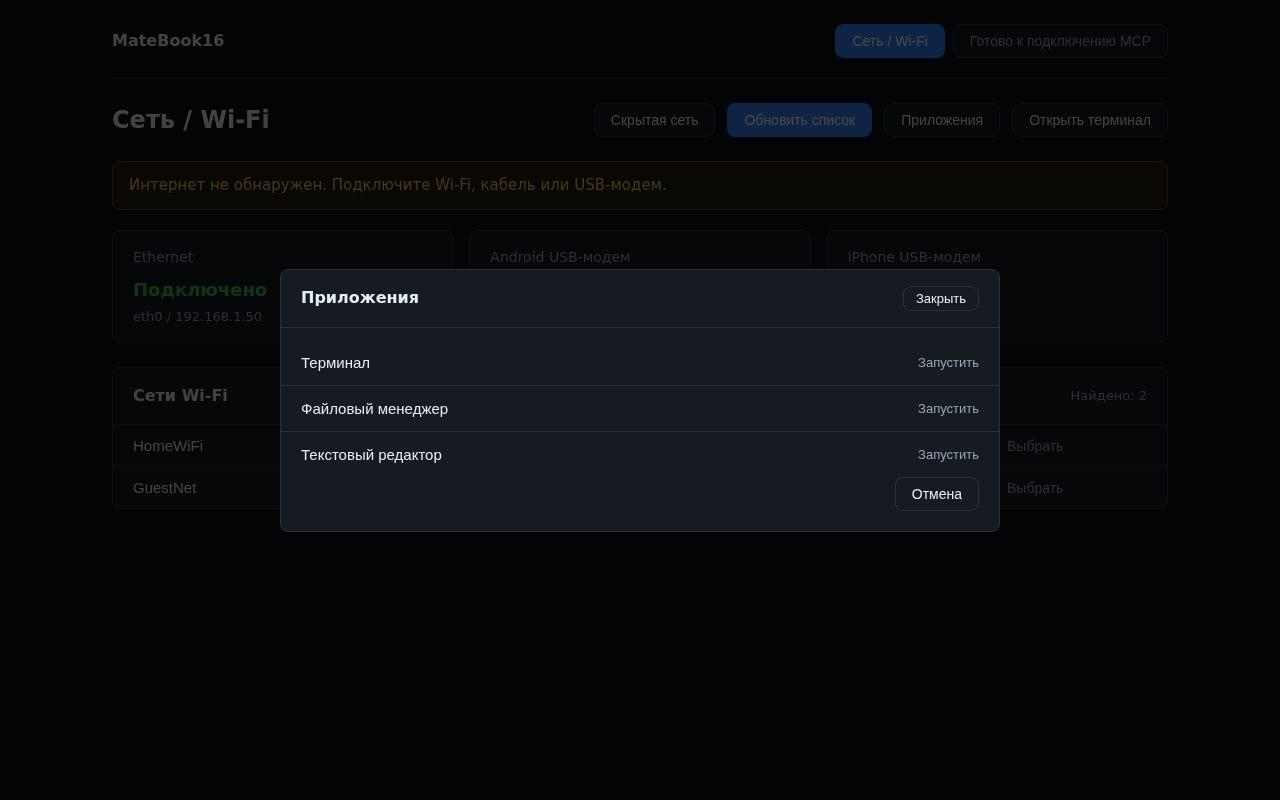
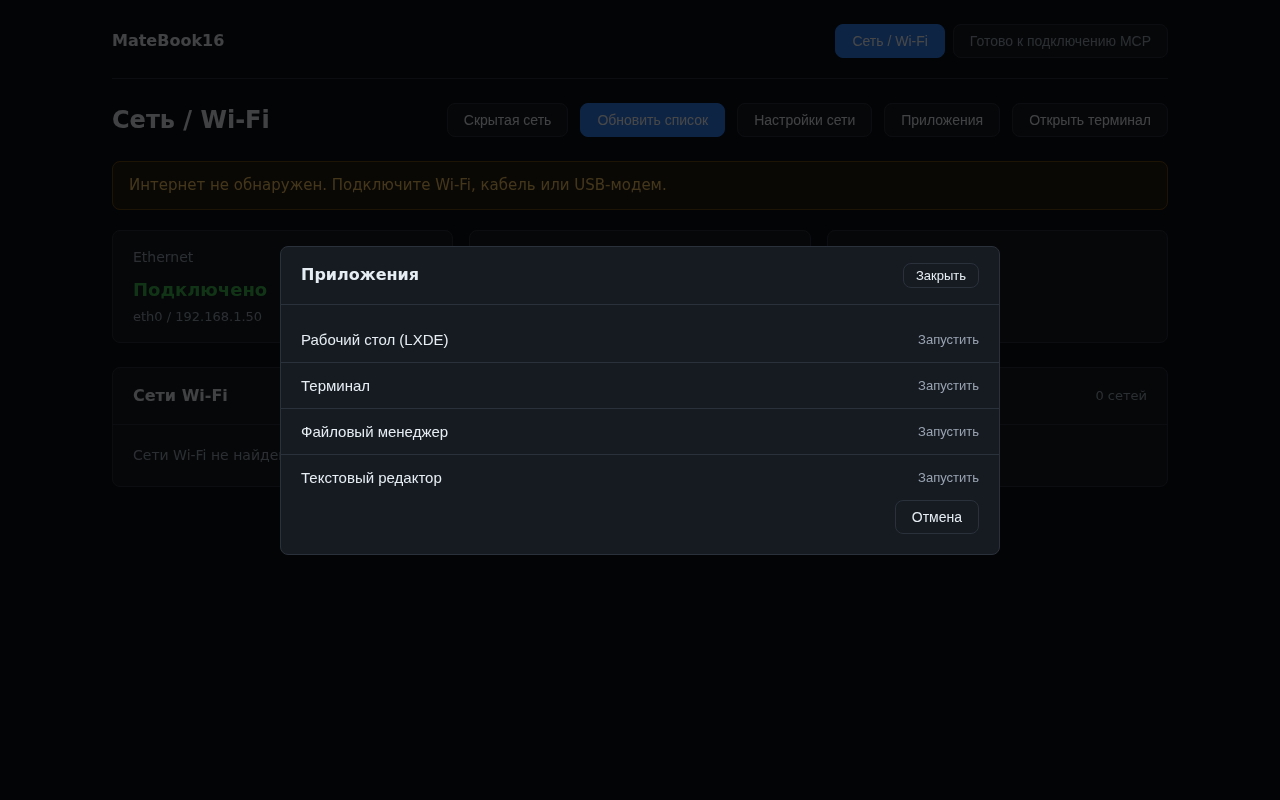
feat(kiosk): launch a full LXDE desktop from the app launcher

diff --git a/tests/test_kiosk_server.py b/tests/test_kiosk_server.py
@@ -673,31 +673,31 @@ def _fake_popen(captured: Dict[str, Any], pid: int = 2468):
     return fake_popen
 
 
-APP_LABELS = ["Терминал", "Файловый менеджер", "Текстовый редактор"]
+APP_LABELS = ["Рабочий стол (LXDE)", "Терминал", "Файловый менеджер", "Текстовый редактор"]
 
 
 def test_list_local_apps_allowlist_and_availability(monkeypatch):
-    _which_map(monkeypatch, {"xterm": "/usr/bin/xterm", "pcmanfm": "/usr/bin/pcmanfm"})
+    _which_map(monkeypatch, {"rhm-open-desktop": "/usr/local/bin/rhm-open-desktop", "xterm": "/usr/bin/xterm", "pcmanfm": "/usr/bin/pcmanfm"})
 
     apps = kiosk.list_local_apps()
-    assert [a["id"] for a in apps] == ["terminal", "files", "editor"]
+    assert [a["id"] for a in apps] == ["desktop", "terminal", "files", "editor"]
     assert [a["label"] for a in apps] == APP_LABELS
-    assert [a["available"] for a in apps] == [True, True, False]
-    assert apps[0]["reason"] == ""
+    assert [a["available"] for a in apps] == [True, True, True, False]
     assert apps[1]["reason"] == ""
-    assert "mousepad" in apps[2]["reason"]
+    assert apps[2]["reason"] == ""
+    assert "mousepad" in apps[3]["reason"]
     # Stable shape: exactly the four contract keys.
     assert all(set(a) == {"id", "label", "available", "reason"} for a in apps)
 
     # Nothing installed -> all unavailable, each with a non-empty Russian reason.
     _which_map(monkeypatch, {})
     missing = kiosk.list_local_apps()
-    assert [a["available"] for a in missing] == [False, False, False]
+    assert [a["available"] for a in missing] == [False, False, False, False]
     assert all(a["reason"] for a in missing)
 
 
 def test_http_api_apps_returns_three_ids_and_availability(running_server, monkeypatch):
-    _which_map(monkeypatch, {"xterm": "/usr/bin/xterm", "mousepad": "/usr/bin/mousepad"})
+    _which_map(monkeypatch, {"rhm-open-desktop": "/usr/local/bin/rhm-open-desktop", "xterm": "/usr/bin/xterm", "mousepad": "/usr/bin/mousepad"})
     base = running_server["base_url"]
 
     status, _, body = _http_request(base, "/api/apps")
@@ -705,10 +705,10 @@ def test_http_api_apps_returns_three_ids_and_availability(running_server, monkey
     data = json.loads(body.decode("utf-8"))
     assert data["ok"] is True
     apps = data["apps"]
-    assert [a["id"] for a in apps] == ["terminal", "files", "editor"]
+    assert [a["id"] for a in apps] == ["desktop", "terminal", "files", "editor"]
     assert [a["label"] for a in apps] == APP_LABELS
-    assert [a["available"] for a in apps] == [True, False, True]
-    assert "pcmanfm" in apps[1]["reason"]
+    assert [a["available"] for a in apps] == [True, True, False, True]
+    assert "pcmanfm" in apps[2]["reason"]
 
     # The catalogue stays behind the existing Host/Origin/Sec-Fetch gate.
     st_evil, _, _ = _http_request(

diff --git a/tests/test_liveusb_iso_pipeline.py b/tests/test_liveusb_iso_pipeline.py
@@ -44,6 +44,7 @@ LF_REQUIRED_FILES = [
     "ops/live-usb/hooks/0300-purge-build-deps.hook.chroot",
     "ops/live-usb/test-qemu.sh",
     "ops/live-usb/start-kiosk.sh",
+    "ops/live-usb/start-lxde.sh",
     "ops/live-usb/fetch-skills.sh",
     "ops/live-usb/udev/99-rhm-no-automount.rules",
     "ops/live-usb/udev/99-rhm-network-tethering.rules",
@@ -55,6 +56,7 @@ BASH_SCRIPTS = [
     "ops/live-usb/hooks/0300-purge-build-deps.hook.chroot",
     "ops/live-usb/test-qemu.sh",
     "ops/live-usb/start-kiosk.sh",
+    "ops/live-usb/start-lxde.sh",
     "ops/live-usb/fetch-skills.sh",
 ]
 
@@ -568,6 +570,25 @@ def test_build_iso_installs_the_root_warning_wrapper() -> None:
     wrapper_text = wrapper.read_text(encoding="utf-8")
     assert "xfe" in wrapper_text
     assert "Warning" in wrapper_text
+
+
+def test_build_iso_installs_lxde_desktop_launcher() -> None:
+    """The app launcher must ship a full LXDE desktop (Start menu/settings)."""
+    text = BUILD_ISO_SH.read_text(encoding="utf-8")
+    packages = _generated_package_list()
+    required = _check_required_packages()
+    wrapper = LIVEUSB_DIR / "start-lxde.sh"
+
+    assert wrapper.is_file()
+    assert "start-lxde.sh" in text
+    assert "/usr/local/bin/rhm-open-desktop" in text
+    for package in ("lxde", "kbd"):
+        assert package in packages
+        assert package in required
+    wrapper_text = wrapper.read_text(encoding="utf-8")
+    assert "startlxde" in wrapper_text
+    assert "chvt 2" in wrapper_text
+    assert ":1 vt2" in wrapper_text
 
 
 def test_build_iso_installs_kiosk_service_and_masks_getty() -> None:

diff --git a/ops/live-usb/kiosk_server.py b/ops/live-usb/kiosk_server.py
@@ -628,9 +628,14 @@ def trigger_session_regenerate(
 #                    found by shutil.which wins. A tail of ``None`` means the
 #                    argv is computed at launch time (file manager target dir).
 #   missing_reason - Russian explanation returned when no binary is installed.
-APP_LAUNCH_ORDER: Tuple[str, ...] = ("terminal", "files", "editor")
+APP_LAUNCH_ORDER: Tuple[str, ...] = ("desktop", "terminal", "files", "editor")
 
 APP_LAUNCHERS: Dict[str, Dict[str, Any]] = {
+    "desktop": {
+        "label": "Рабочий стол (LXDE)",
+        "candidates": (("rhm-open-desktop", None),),
+        "missing_reason": "Рабочий стол LXDE недоступен: не установлен rhm-open-desktop",
+    },
     "terminal": {
         "label": "Терминал",
         "candidates": tuple(

diff --git a/PROJECT_STATUS_2026-11-23.md b/PROJECT_STATUS_2026-11-23.md
@@ -21,10 +21,10 @@
 | Область | Было | Стало |
 | :--- | :--- | :--- |
 | Rescue-API | 5 секций и 4 действия не реализованы | все 12 секций и 11 действий |
-| Тесты | 5 failed / 1756 passed | **0 failed / 2025 passed / 8 skipped** |
+| Тесты | 5 failed / 1756 passed | **0 failed / 2028 passed / 8 skipped** |
 | Версия | 0.6.0 | **0.1.0** |
 | ISO | не собран | **1.5 ГБ, собран и загружен в QEMU** |
-| `--check` | отсутствовал | **68/68 PASS** |
+| `--check` | отсутствовал | **72/72 PASS** |
 | Kiosk terminal | не было | кнопка + `xterm` + `DISPLAY` |
 | CI/docs | неполные | LiveUSB CI, `docs/liveusb/*`, release notes |
 
@@ -82,6 +82,7 @@ APFS: `apfs-fuse` собран и установлен; DKMS-модуль `linux
   затем pending-экран «Интернет есть, получаем токен…», затем QR-экран с
   инструкцией.
 - Терминал доступен на обоих экранах; меню «Приложения» открывает allowlist:
+  рабочий стол LXDE (`rhm-open-desktop`, меню «Пуск» и настройки на vt2),
   терминал, файловый менеджер (`xfe` через `rhm-open-files`, fallback
   `pcmanfm`) и редактор (`mousepad`).
 - Визуальный прогон: Chromium + Playwright протыкал сеть, Wi-Fi-модалку,
@@ -120,10 +121,10 @@ APFS: `apfs-fuse` собран и установлен; DKMS-модуль `linux
 
 | Проверка | Результат |
 | :--- | :--- |
-| `py -m pytest tests -q` | **2025 passed, 8 skipped, 0 failed** |
+| `py -m pytest tests -q` | **2028 passed, 8 skipped, 0 failed** |
 | `tests/test_rescue.py` | 155 passed |
 | `tests/test_liveusb_iso_pipeline.py` | 24 passed |
-| `build-iso.sh --check` | **68/68 PASS**, exit 0 |
+| `build-iso.sh --check` | **72/72 PASS**, exit 0 |
 | `bash -n` build-iso / start-kiosk / hook | exit 0 |
 | `compileall`, `node --check app.js` | exit 0 |
 

diff --git a/README_RU.md b/README_RU.md
@@ -91,6 +91,8 @@
 3. `macos-apfs-hfs-recovery` — аккуратное чтение и выгрузка данных с APFS (`apfs-dkms`, `apfs-fuse` для FileVault, `libfsapfs-utils`) и HFS+.
 4. `ram-hardware-live-diagnostics` — инвентаризация железа (`dmidecode`, `lshw`, `lspci`, `lsusb`, `sensors`), проверка ECC (`edac-utils`), тест ОЗУ (`memtester`), live-дамп памяти (`/proc/kcore` работает из коробки; `avml` не предустановлен в ISO и используется опционально при отдельной установке).
 
+- **Рабочий стол LXDE** — из меню «Приложения» запускается полноценная лёгкая сессия LXDE на t2 (меню «Пуск», PCManFM, настройки экрана/клавиатуры/темы); возврат в киоск — Ctrl+Alt+F1.
+
 Дополнительно скрипт `ops/live-usb/fetch-skills.sh` позволяет подтянуть проверенные GitHub-скиллы по манифесту `ops/live-usb/skills-manifest.json` с фиксацией точных commit SHA в `ops/live-usb/skills-lock.json` и автоматическим сканированием офлайн-сканером **NVIDIA SkillSpector** (`--recursive --no-llm`) на prompt injection и tool poisoning.
 
 ---

diff --git a/README.md b/README.md
@@ -74,6 +74,7 @@ Instead of flooding the AI's context window with dozens of long manuals, LiveUSB
   2. `linux-chroot-grub-luks-rescue` — Safe `mdadm` -> `cryptsetup` -> `lvm2` assembly, `chroot`, GRUB/systemd-boot, and `initramfs` rebuilds.
   3. `macos-apfs-hfs-recovery` — Safe data extraction from APFS (`apfs-dkms` / `apfs-fuse` for FileVault / `libfsapfs-utils`) and HFS+.
   4. `ram-hardware-live-diagnostics` — Hardware inventory (`dmidecode`, `lshw`, `lspci`, `lsusb`, `lm-sensors`), live RAM stress testing (`memtester`), and memory capture (`/proc/kcore` works out of the box; `avml` is not preinstalled in the ISO and is optional if installed separately).
+- **LXDE desktop** — the kiosk app launcher opens a full lightweight LXDE session on t2 (Start menu, PCManFM, display/keyboard/appearance settings); Ctrl+Alt+F1 returns to the kiosk.
 - **Curated external skills (`ops/live-usb/fetch-skills.sh`):** Downloads vetted GitHub sysadmin, DevOps, storage, and recovery skills listed in `ops/live-usb/skills-manifest.json`, records exact commit SHAs in `ops/live-usb/skills-lock.json`, and scans them offline with [NVIDIA/SkillSpector](https://github.com/NVIDIA/SkillSpector) (`--recursive --no-llm`) when installed.
 
 ---

diff --git a/docs/releases/v0.1.0.md b/docs/releases/v0.1.0.md
@@ -61,7 +61,7 @@ prove its own ISO assets before a build.
   ships `xterm`; `start-kiosk.sh` exports `:0`. If it reports unavailable
   (`503`), `Ctrl+Alt+F2` → `[S] Shell (bash)` is the fallback.
 - **«Приложения»** opens an allowlisted launcher (`GET /api/apps`,
-  `POST /api/apps/launch`): terminal, file manager (`xfe` via the
+  `POST /api/apps/launch`): LXDE desktop (`rhm-open-desktop`, Start menu/settings on vt2), terminal, file manager (`xfe` via the
   `rhm-open-files` wrapper, `pcmanfm` fallback) and text editor (`mousepad`).
   The browser sends only an id; the argv is chosen server-side. The file
   manager opens `/mnt/rescue` (fallback `/root`) and the wrapper dismisses
@@ -165,6 +165,6 @@ A real build was performed on Debian 13.5 (Trixie) inside WSL2 with KVM:
 
 ## Verification
 
-`python -m pytest tests -q` → **2025 passed, 8 skipped, 0 failed** (Windows,
-Python 3.13). `bash ops/live-usb/build-iso.sh --check` → **68 asset checks
+`python -m pytest tests -q` → **2028 passed, 8 skipped, 0 failed** (Windows,
+Python 3.13). `bash ops/live-usb/build-iso.sh --check` → **72 asset checks
 passed**. A real ISO was built and booted in QEMU UEFI/KVM as described above.

diff --git a/docs/liveusb/STARTUP_UI.md b/docs/liveusb/STARTUP_UI.md
@@ -47,6 +47,10 @@ suppressed; polling still refreshes the data.
 
 ![Kiosk apps modal](images/kiosk-apps.png)
 
+- **Рабочий стол (LXDE)** — starts a full LXDE session on `:1`/`vt2` via
+  `rhm-open-desktop`; it has the LXDE Start menu, PCManFM, terminal, display
+  (`lxrandr`), keyboard/mouse (`lxinput`) and appearance (`lxappearance`)
+  settings. The kiosk stays on `vt1`; `Ctrl+Alt+F1` returns to it.
 - **Терминал** — `xterm -e bash` (or the configured terminal emulator).
 - **Файловый менеджер** — `rhm-open-files`, a wrapper around `xfe` that opens
   `/mnt/rescue` (fallback `/root`) and dismisses Xfe's root warning
